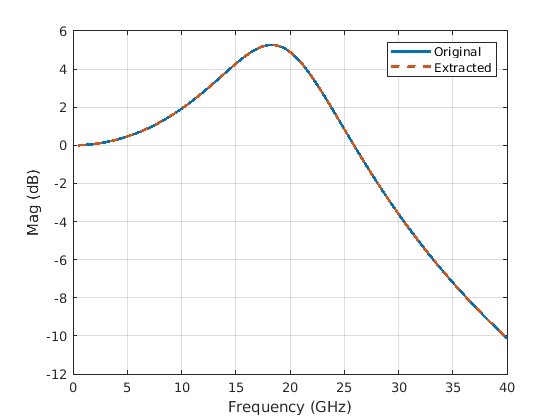
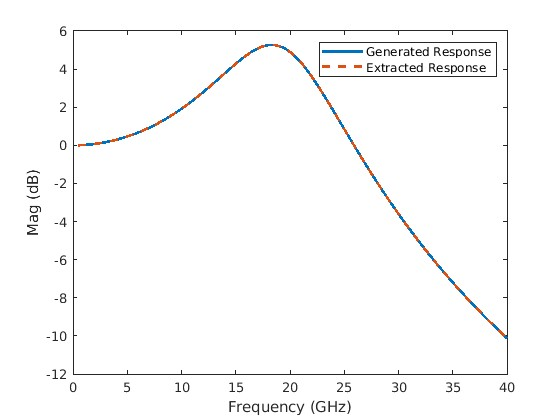
figure changes, changing variable names for clarity

diff --git a/test_param_extract_bw.m b/test_param_extract_bw.m
@@ -31,14 +31,14 @@ fun = @(x0) bw_error(x0,laserOpt,opt_param,freqX,freqY);
 [x,fval] = fmincon(fun,opt_param.x0_scaled,[],[],[],[],opt_param.lb, opt_param.ub,[],options);
 
 % calculate frequency response using extracted parameters
-laserOptNew = set_params(x,laserOpt,opt_param);
-freqYOpt = get_freq_resp(laserOptNew,freqX);
+laserParamExtracted = set_params(x,laserOpt,opt_param);
+freqYExtracted = get_freq_resp(laserParamExtracted,freqX);
 
 % plot original vs extracted freq. resp.
 figure;
 plot(freqX/1e9,freqY,'-','LineWidth',2);hold on;
-plot(freqX/1e9,freqYOpt,'--','LineWidth',2)
-legend({'Original', 'Extracted'})
+plot(freqX/1e9,freqYExtracted,'--','LineWidth',2)
 xlabel('Frequency (GHz)')
 ylabel('Mag (dB)')
-grid on
+legend({'Generated Response', 'Extracted Response'})
+
